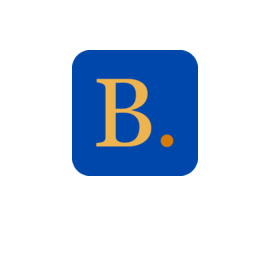
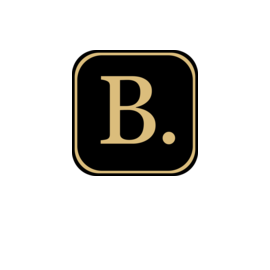
Add files via upload

Changed region(s): [[0.2667, 0.1778, 0.7407, 0.6519]]

diff --git a/index.html b/index.html
@@ -6,6 +6,7 @@
         <meta name="description" content="Betjemann history">
         <meta name="keywords" content="Betjemann,Betjeman,Betjemann history, John Betjeman, George Betjemann & Sons">
         <meta property="og:title" content="Betjemann">
+        <title>Betjemann</title>
         <meta property="og:url" content="https://betjemann.com">
         <meta property="og:description" content="Betjemann history">
         <meta property="og:type" content="website">
@@ -18,17 +19,19 @@
         <link rel="icon" type="image/png" sizes="16x16" href="./assets/favicon-16x16.png">
         <link rel="manifest" href="./assets/site.webmanifest">
         <link rel="mask-icon" href="./assets/safari-pinned-tab.svg" color="#5bbad5">
-        <meta name="msapplication-TileColor" content="#00aba9">
+        <link rel="shortcut icon" href="./assets/favicon.ico">
+        <meta name="msapplication-TileColor" content="#da532c">
+        <meta name="msapplication-config" content="./assets/browserconfig.xml">
         <meta name="theme-color" content="#ffffff">
     </head>
     <body>
         
-        <h1><i class="fas fa-wrench"></i>Update <span style="color: #d67b04;">-</span> 23rd December 2021</h1>
+        <h1><i class="fas fa-wrench"></i>Update <span style="color: #dbbd7c;">-</span> 23rd December 2021</h1>
         <p>Typewritten PhD thesis by <u>Alan. G. Betjemann</u> to be converted to <a href="https://www.latex-project.org/">LaTeX</a> written PDF.</p>
         <blockquote>
             <p><u>The compressibilities of solidified inert gases</u>. March 1959. Department of Physics. Queen Mary University of London.</p>
         </blockquote>
         <img src="./assets/fp.jpg" alt="Thesis front page - The compressibilities of solidified inert gases">
-        <p>For any enquires please contact <span style="color: #d67b04;">-</span> info@betjemann.com</p>
+        <p>For any enquires please contact <span style="color: #dbbd7c;">-</span> info@betjemann.com</p>
     </body>
 </html>
